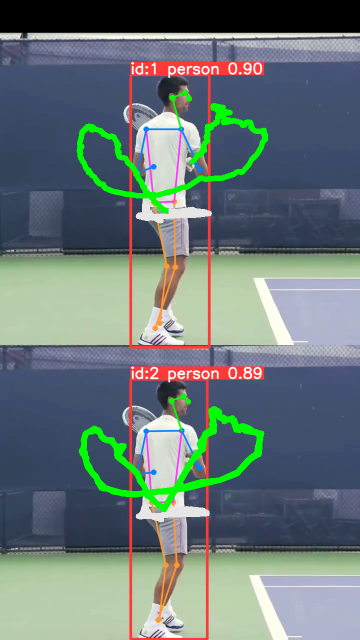
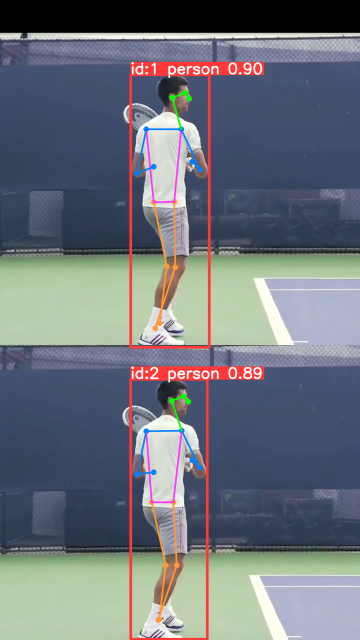
messed up trying to implement one person tracking only

Changed region(s): [[0.2139, 0.625, 0.7333, 0.8125], [0.2139, 0.1562, 0.7639, 0.375]]

diff --git a/src/python/main.py b/src/python/main.py
@@ -59,26 +59,33 @@ while cap.isOpened():
             track_ids = result.boxes.id.int().cpu().tolist()
             keypoints_list = result.keypoints.xy.cpu().tolist()
 
+            # Initialize a flag to check if the first person (id == 0) has been processed
+            first_person_processed = False
+
             # For each tracked object, iterate over its keypoints.
             # If the keypoint is the right wrist (index 10), append its coordinates to the wrist_history for the current track_id.
             # If the wrist_history for the current track_id exceeds the maximum track length, remove the oldest entry.
             for track_id, keypoints in zip(track_ids, keypoints_list):
-                for i, keypoint in enumerate(keypoints):
-                    x, y = keypoint[:2]  # Only take the first two values
-                    if i == 10:  # If the keypoint is the right wrist
-                        wrist_history[track_id].append((float(x), float(y)))  # x, y center point
-                        if len(wrist_history[track_id]) > max_track_length:
-                            wrist_history[track_id].pop(0)
+                if track_id == 0 and not first_person_processed:
+                    for i, keypoint in enumerate(keypoints):
+                        x, y = keypoint[:2]  # Only take the first two values
+                        if i == 10:  # If the keypoint is the right wrist
+                            wrist_history[track_id].append((float(x), float(y)))  # x, y center point
+                            if len(wrist_history[track_id]) > max_track_length:
+                                wrist_history[track_id].pop(0)
+                            first_person_processed = True
 
             # For each bounding box and its corresponding track_id, extract the box's coordinates.
             # Append the center point of the box (x, y) to the tracking history for the current track_id.
             # If the tracking history for the current track_id exceeds the maximum track length, remove the oldest entry.
             for box, track_id in zip(boxes, track_ids):
-                x, y, w, h = box
-                track = center_history[track_id]
-                track.append((float(x), float(y)))  # x, y center point
-                if len(track) > max_track_length:
-                    track.pop(0)
+                if track_id == 0 and not first_person_processed:
+                    x, y, w, h = box
+                    track = center_history[track_id]
+                    track.append((float(x), float(y)))  # x, y center point
+                    if len(track) > max_track_length:
+                        track.pop(0)
+                    first_person_processed = True
 
             # Visualize the results on the frame
             annotated_frame = result.plot()
